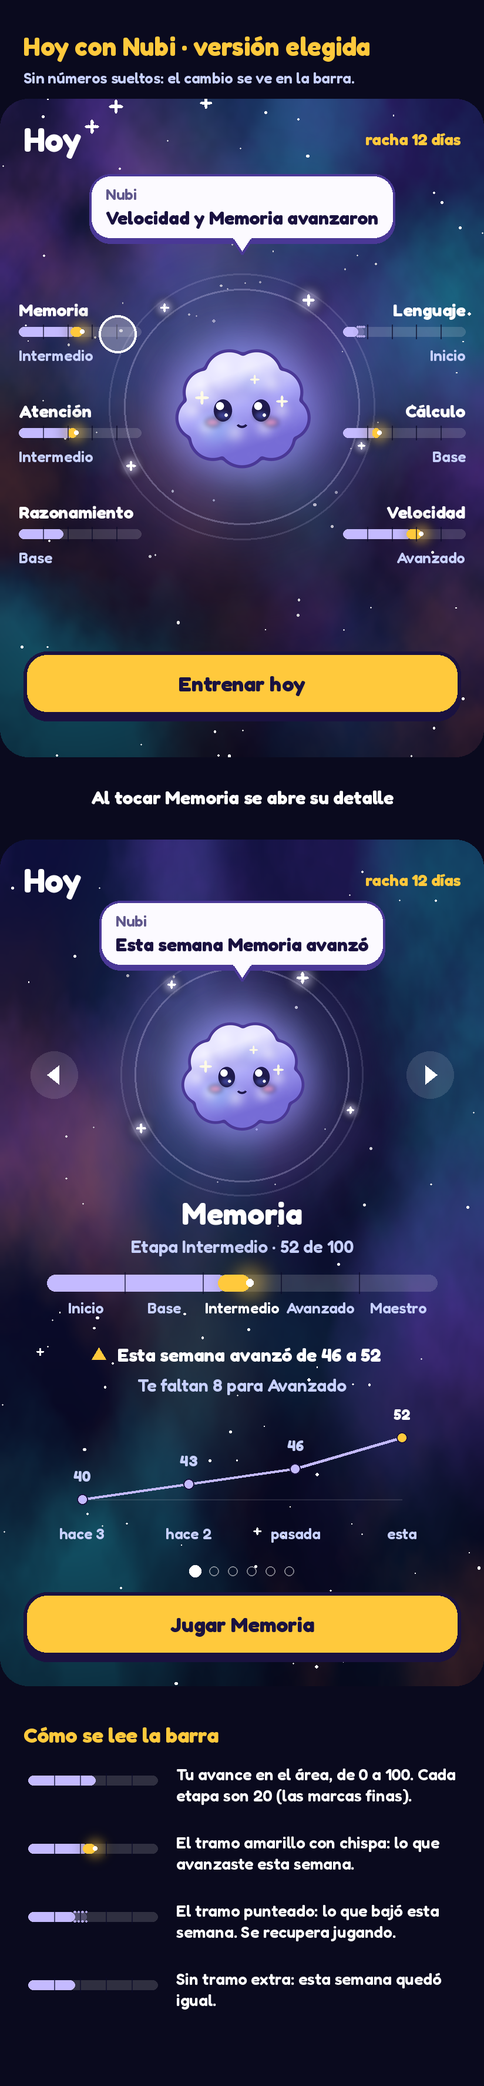
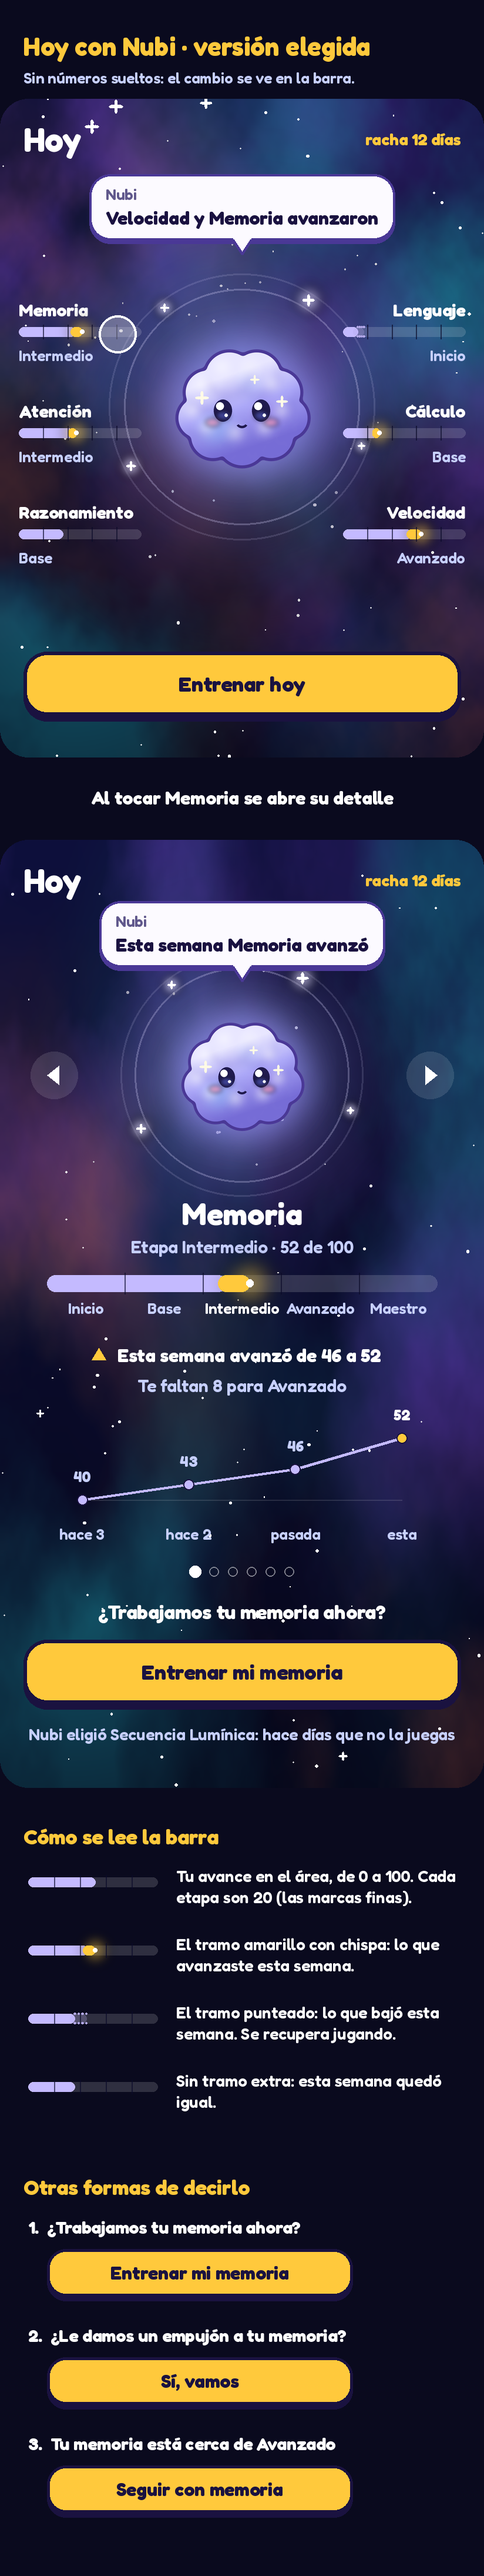
Detalle del área: invitación en vez de "Jugar Memoria"
Pregunta de Nubi (¿Trabajamos tu memoria ahora?), botón en primera
persona (Entrenar mi memoria) y qué juego eligió Nubi y por qué; más
dos formas alternativas de decirlo.

Claude-Session: https://claude.ai/code/session_01JaQCjoiZ4mgP78yJdfn8ii

diff --git a/tools/previews/nubi_hoy.py b/tools/previews/nubi_hoy.py
@@ -78,7 +78,7 @@ def screen_a():
 
 
 def screen_c():
-    H = dp(720); im = NI.base_panel(65, H)
+    H = dp(806); im = NI.base_panel(65, H)
     key, name, v, dv = AREAS[0]
     d = ImageDraw.Draw(im)
     d.text((W - dp(20), dp(34)), '✕' if False else '', font=F(14), fill=WHITE)
@@ -120,7 +120,12 @@ def screen_c():
         x = W / 2 + (i - 2.5) * dp(16); r = dp(4 if i else 5); py = gy1 + dp(52)
         if i == 0: d.ellipse([x - r, py - r, x + r, py + r], fill=WHITE)
         else: ov(im, lambda dd, x=x, r=r, py=py: dd.ellipse([x - r, py - r, x + r, py + r], outline=(255, 255, 255, 120), width=int(dp(1.4))))
-    NI.button(im, dp(640), 'Jugar Memoria')
+    # invitación en vez de "Jugar Memoria": una pregunta de Nubi, el botón en primera persona y qué juego toca
+    d = ImageDraw.Draw(im)
+    d.text((W / 2, dp(656)), '¿Trabajamos tu memoria ahora?', font=F(17), fill=WHITE, anchor='mm')
+    NI.button(im, dp(680), 'Entrenar mi memoria')
+    d = ImageDraw.Draw(im)
+    d.text((W / 2, dp(760)), 'Nubi eligió Secuencia Lumínica: hace días que no la juegas', font=F(14, False), fill=DIM, anchor='mm')
     return im
 
 
@@ -139,9 +144,25 @@ def legend(im, y):
     return y + len(rows) * dp(58)
 
 
+def options(im, y):
+    """Otras formas de decirlo (en todas: pregunta + acción; nunca "Jugar Memoria")."""
+    d = ImageDraw.Draw(im)
+    d.text((dp(20), y), 'Otras formas de decirlo', font=F(18), fill=SUN); y += dp(36)
+    for i, (q, b) in enumerate([('¿Trabajamos tu memoria ahora?', 'Entrenar mi memoria'),
+                               ('¿Le damos un empujón a tu memoria?', 'Sí, vamos'),
+                               ('Tu memoria está cerca de Avanzado', 'Seguir con memoria')]):
+        yy = y + i * dp(92)
+        d = ImageDraw.Draw(im)
+        d.text((dp(24), yy), f'{i + 1}.  {q}', font=F(15), fill=WHITE)
+        x0, x1, h = dp(40), dp(300), dp(40)
+        d.rounded_rectangle([x0, yy + dp(28) + dp(4), x1, yy + dp(28) + h + dp(4)], radius=dp(16), fill=INK)
+        d.rounded_rectangle([x0, yy + dp(28), x1, yy + dp(28) + h], radius=dp(16), fill=SUN, outline=INK, width=int(dp(2.5)))
+        d.text(((x0 + x1) / 2, yy + dp(28) + h / 2), b, font=F(16), fill=INK, anchor='mm')
+
+
 def sheet():
     a, c = screen_a(), screen_c()
-    H = dp(84) + a.size[1] + dp(70) + c.size[1] + dp(40) + dp(300)
+    H = dp(84) + a.size[1] + dp(70) + c.size[1] + dp(40) + dp(300) + dp(330)
     im = Image.new('RGBA', (W, int(H)), (10, 10, 30, 255)); d = ImageDraw.Draw(im)
     d.text((dp(20), dp(26)), 'Hoy con Nubi · versión elegida', font=F(22), fill=SUN)
     d.text((dp(20), dp(58)), 'Sin números sueltos: el cambio se ve en la barra.', font=F(13, False), fill=DIM)
@@ -151,7 +172,8 @@ def sheet():
     d.text((W / 2, y + dp(18)), 'Al tocar Memoria se abre su detalle', font=F(16), fill=WHITE, anchor='mm')
     y += dp(54)
     AL.paste_round(im, c, 0, y, dp(24)); y += c.size[1] + dp(30)
-    legend(im, y)
+    y = legend(im, y) + dp(30)
+    options(im, y)
     out = os.path.join(P.OUT, 'nubi-hoy.png'); im.convert('RGB').save(out); print(out)
 
 
